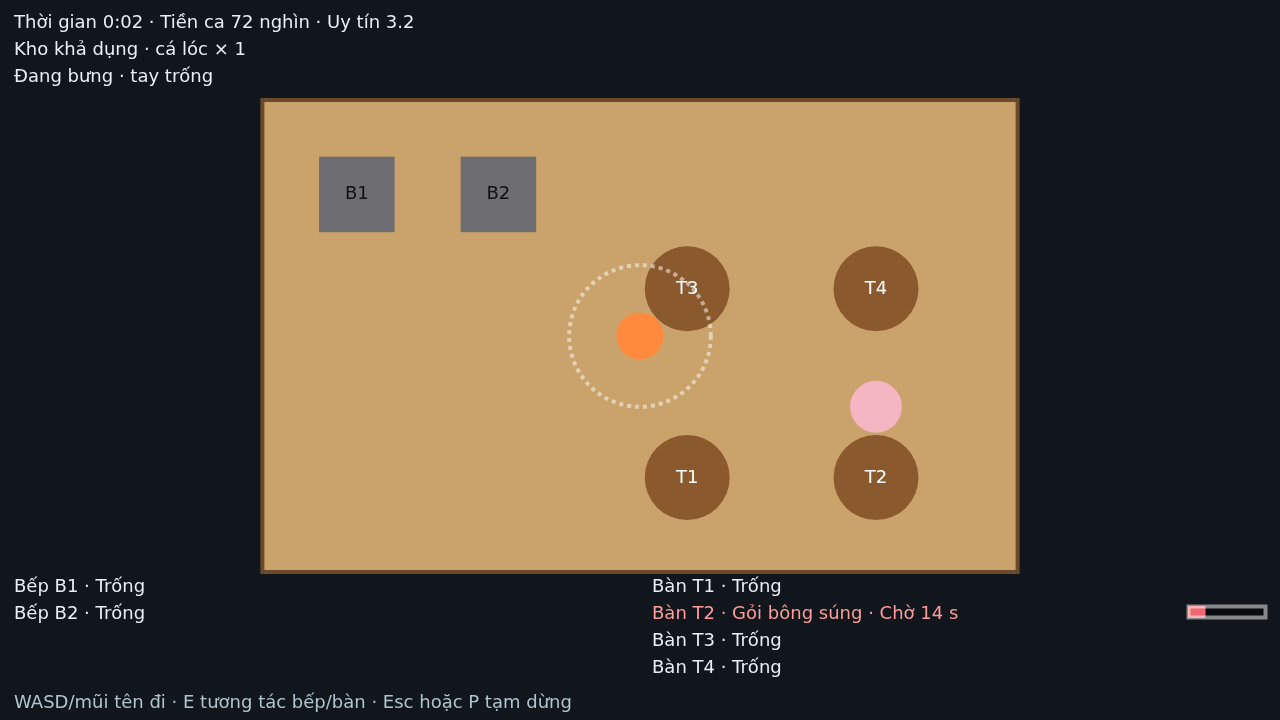
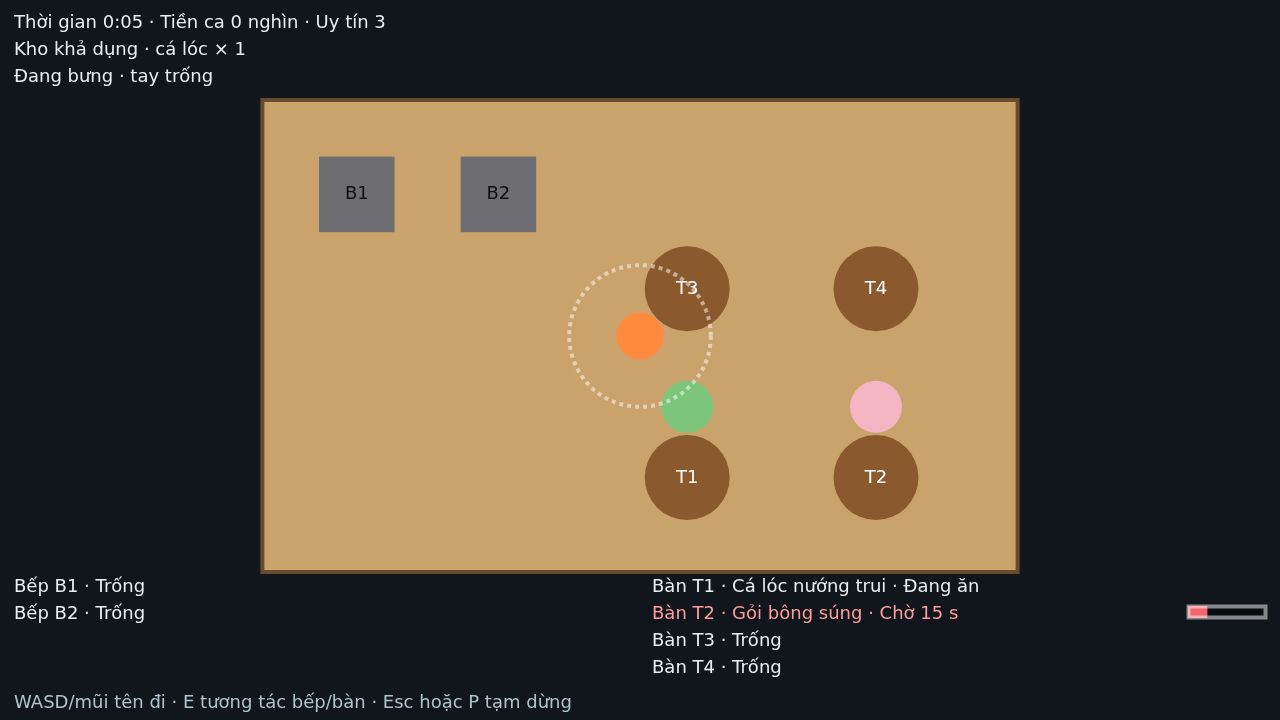
docs: chốt kiểm chứng UI Phase 2 trên v1.1
Pause thật ở gather/quán/Shop và vòng 5 ngày qua Chromium 1280×720, hai HUD đạt 60 FPS. Regression P1 119/119; toàn repo 369 đạt, 1 skip legacy.

Changed region(s): [[0.5625, 0.7944, 0.7812, 0.8556], [0.5, 0.5194, 0.5625, 0.6111], [0.1875, 0.0, 0.3125, 0.0611]]

diff --git a/docs/proof/phase-2/ui/README.md b/docs/proof/phase-2/ui/README.md
@@ -1,14 +1,24 @@
 # Kiểm chứng Phase 2 — lát U
 
-Giao diện ở `fdb79ba`, kiểm trên Chromium headless 1280×720. Bản ghép thử dùng `main` `c3dcd80`, lát cá `db3c462`, lát Shop/DayState `71f5ada` và các fixture số chuẩn v1.1. Manifest và bộ kiểm tra cấu hình chính thức của lát C vẫn cần được tích hợp.
+Bản kiểm `89e2437` trên `main`, sau khi gộp PR #24, dùng manifest v1.1 chính thức. Seed 42, Chromium headless, viewport 1280×720. Bằng chứng cho AC-P2-17 và AC-P2-18.
+
+```bash
+python3 -m chonoi.live --mode day --seed 42 --scenario docs/proof/phase-2/ui/scenario.json
+PYTHONPATH=tests:. python3 -m unittest discover -s tests -p 'test_p1_*.py' -v
+```
 
 | Kiểm tra | Kết quả quan sát |
 |---|---|
-| Menu, DayIntro, EveningIntro | Nút Chơi và Thoát hoạt động. DayIntro chuyển sau khoảng 4 giây hoặc khi nhấn phím. EveningIntro lọc món theo kho và kế hoạch. Đã kiểm thêm ở chiều rộng 320 px. [Menu](menu.png) |
-| HUD sáng và tối | Cảnh báo giờ/oxy/kiên nhẫn, giỏ và mục tiêu, 2 bếp/4 bàn, kho trừ phần giữ chỗ, chữ sans-serif 18 px. [HUD sáng](hud-gather.png), [HUD tối](hud-quan.png), [cảnh báo với snapshot giả](gather-warning-mock.png) |
-| Pause | Đã kiểm Esc/P, Tiếp tục và màn làm mờ với snapshot `paused` giả. Cần kiểm lại việc dừng tick/timer với lớp bọc lát C, kể cả trong Shop. [Ảnh mock](pause-mock.png) |
-| Vòng 5 ngày trên trình duyệt | Ca thử có kho và hai khách dựng sẵn. Ca đầu thu 72 nghìn, trong đó boa 12 nghìn, uy tín +0,2. Mua oxy cấp 1 và thấy 2.700 tick ở ngày sau. M2 có từ ngày 3. Sau khi đóng Shop ngày 5, Summary hiện tổng thu 560 nghìn, số dư 360 nghìn, uy tín 4, điểm 960, cá lóc nướng trui bán 5 suất. Tổng thu gồm 200 nghìn tiền/earned đầu fixture. [Shop](shop.png), [Summary](summary.png) |
-| Tốc độ vẽ cục bộ | Đếm lần Canvas vẽ lại cảnh qua `requestAnimationFrame`, chuẩn hóa bằng `performance.now()`. Chromium headless ghi khoảng 240 FPS ở cả HUD sáng (2,5 s) và tối (1,5 s), tại 1280×720. Cần đo lại trên bản tích hợp bàn giao. |
-| DaySim qua runner | Seed 42. Một Ngày chạy 22.200 tick trong khoảng 0,63 s. Ba Ngày chạy 66.600 tick, có M2 từ ngày 3. Mỗi cấu hình chạy hai lần cho JSONL giống từng byte. Lệnh CLI v1.1 của lát C cần kiểm riêng. |
+| Menu và màn chuyển pha | DayIntro giữ ca ở tick 0 và chuyển sau khoảng 4 giây hoặc khi nhấn phím. EveningIntro nhận 3 nguyên liệu và đợi bấm Mở quán. DayResult ghi 1 khách phục vụ, 1 khách bỏ đi, 72 nghìn tiền ca, boa 12 nghìn và uy tín +0,2. [Menu](menu.png) |
+| HUD và tốc độ vẽ | Font HUD sans-serif 18 px. Đếm số lần vẽ Canvas qua `requestAnimationFrame` trong 2,5 s ở gather và 2,4 s ở quán, đo bằng `performance.now()`. Hai ca đạt 60,0 FPS. [HUD sáng](hud-gather.png), [HUD tối](hud-quan.png), [cảnh báo với snapshot giả](gather-warning-mock.png) |
+| Pause thật | Esc/P và Tiếp tục hoạt động trong gather, quán và Shop. Khoảng chờ quan sát 400 ms cho mỗi pha. Shop bỏ qua lệnh mua và đóng trong lúc pause, giữ nguyên số dư và cấp. Tiếp tục thì đồng hồ chạy lại. [Ảnh pause Shop](pause-shop.png) |
+| Mua nâng cấp và tổng kết | Mua oxy cấp 1 ngày 1, có 2.700 tick oxy từ ngày 2. M2 xuất hiện từ ngày 3. Summary hiện sau khi Shop ngày 5 đóng. Tổng thu 560 nghìn (gồm 200 nghìn đầu fixture), số dư 360 nghìn, uy tín 4, điểm 960, món bán chạy là cá lóc nướng trui với 5 suất. [Shop](shop.png), [Summary](summary.png) |
+| Regression | 119/119 ca `test_p1_*.py` đạt. Toàn repo 369 ca đạt, 1 ca bỏ qua vì chỉ áp dụng cho đàn cá đứng yên v1.0. [Log regression](regression-v11.log) |
 
-Regression chạy bằng `PYTHONPATH=tests:. python3 -m unittest discover -s tests -v`. Bản ghép thử đạt 276/276. Fixture số chuẩn v1.1 đạt 134/134 ca regression P1 và live khi cấp cấu hình trực tiếp cho bộ nạp. Nhánh U lấy riêng với main `c3dcd80` còn 6 ca lỗi đã tái hiện trên main trước thay đổi U. Bản ghép thử đã có bản sửa `3a8be98` của nhóm.
+| Pha lúc pause | Tick ngoài trước → sau | `sim_tick` giữ nguyên | `phase_tick` giữ nguyên | Giờ còn lại (tick) |
+|---|---:|---:|---:|---:|
+| Gather | 29 → 54 | 24 | 24 | 10.776 |
+| Quán | 233 → 257 | 196 | 3 | 297 |
+| Shop | 559 → 591 | 495 | 2 | 598 |
+
+Script proof của nhóm chạy trên cùng revision cho smoke chuyển kho đạt, vòng 1 ngày đạt 22.200 tick trong 1,10 s, vòng 3 ngày đạt 66.600 tick. Hai lần chạy một ngày cùng seed cho JSONL giống từng byte.

diff --git a/docs/ai-usage-log.md b/docs/ai-usage-log.md
@@ -11,4 +11,4 @@
 | 2 | ChuTungDuongg | Codex | Triển khai Lát B, dựng fixture tuning v1.1, viết test về Cá Sấu, va chạm, ngất và giới hạn oxy/Máu. | Chưa đo token và chi phí. | Rà soát tìm ra sai số float làm hụt hit đúng 1,5 m hoặc chọn sai id khi hai khoảng cách bằng nhau. Đã tái hiện bằng tọa độ thập phân, sửa và kiểm lại bằng test. |
 | 1 | phuthaitran | Claude Code (Claude Opus) | Lát 4: fixture `quan_one_customer`, sắp lại `QuanSim.step` theo 5 bước PRD-0 F, chọn interact, nấu/bưng/phục vụ/boa/trả tiền/cuối ca, 26 test lát 4; tích hợp với lát 3; chơi thử quán với kho thật (headless + `chonoi.live` qua HTTP), sửa nhanh payload `no_dish`/`customer_arrived` và HUD bếp. | Chưa đo token và chi phí. | AI không đọc được PRD trên lab board (nạp động) nên phải dán mục E–F vào. Hợp đồng nhóm ghi payload event khác PRD; AI theo PRD và giữ trường cũ để không vỡ lát 3. Bản đầu của một test và của bot chơi thử viết rối, phải viết lại; kiểm đột biến (đổi `>=` ngưỡng boa) xác nhận test bắt lỗi. 134/134 test đạt. |
 | 1 | RachalHys | Codex | Đối chiếu PRD-0, viết ma trận 12 AC, hoàn thiện hai HUD và README, thêm ca biên headless và kiểm chứng trên main. | Chưa đo token và chi phí. | Bản HUD sáng AI đề xuất vẫn để log sự kiện đè lên giỏ ở cửa sổ 320 px. Phát hiện qua ảnh Chromium, dời log lên trên rồi kiểm lại trên cả hai kích thước. |
-| 2 | RachalHys | Codex | Đọc TICKET-02, triển khai giao diện lát U, rà regression Phase 1 và kiểm bằng Playwright. | Chưa đo token và chi phí. | Ban đầu dùng số bàn trống theo giả định quán chỉ có T1. Chạy regression với 4 bàn mới phát hiện fixture chưa lấp hết bàn. Đã cho fixture lấy danh sách bàn của sim và giữ nguyên phép kiểm. |
+| 2 | RachalHys | Codex | Đọc TICKET-02, triển khai giao diện lát U, rà regression Phase 1 và dùng Playwright kiểm vòng ngày cùng pause trên bản v1.1 đã gộp. | Chưa đo token và chi phí. | Ban đầu dùng số bàn trống theo giả định quán chỉ có T1. Chạy regression với 4 bàn mới phát hiện fixture chưa lấp hết bàn. Đã cho fixture lấy danh sách bàn của sim và giữ nguyên phép kiểm. |

diff --git a/README.md b/README.md
@@ -15,17 +15,17 @@ Cách làm việc kỹ thuật là **tự do** (push thẳng, nhánh + PR, pair,
 
 ## Bắt đầu nhanh
 
-Trên macOS hoặc Linux, dùng Git và Python 3 (CI dùng Python 3.12). Game dùng thư viện chuẩn. Chạy ba lệnh sau rồi mở địa chỉ in ra để chơi buổi sáng.
+Trên macOS hoặc Linux, dùng Git và Python 3 (CI dùng Python 3.12). Game dùng thư viện chuẩn. Chạy ba lệnh sau rồi mở địa chỉ in ra để chơi vòng ngày.
 
 ```bash
 git clone https://github.com/HoangHongNgo/K5-L3B-LAB-Day12-AI-SDLC-ChoNoi.git
 cd K5-L3B-LAB-Day12-AI-SDLC-ChoNoi
-python3 -m chonoi.live --mode gather --inventory-out kho.json
+python3 -m chonoi.live --mode day
 ```
 
-Khi đã cập bến hoặc buổi sáng kết thúc, nhấn `Ctrl+C`, rồi chạy `python3 -m chonoi.live --mode quan --inventory kho.json` để dùng kho vừa thu được. Muốn chơi riêng buổi tối, dùng `--inventory docs/contracts/inventory.sample.json` với lệnh `quan`.
+Để chơi hai ca riêng, chạy `python3 -m chonoi.live --mode gather --inventory-out kho.json`. Khi ca sáng kết thúc, dừng bằng `Ctrl+C` rồi chạy `python3 -m chonoi.live --mode quan --inventory kho.json`. Có thể dùng `docs/contracts/inventory.sample.json` để mở quán với kho mẫu.
 
-- **Điều khiển** — `WASD` hoặc phím mũi tên để bơi và đi, `E` để hái, cập bến hoặc tương tác với bếp và bàn, `Space` để bắt cá dưới nước, `R` để chơi lại.
+- **Điều khiển** — `WASD` hoặc phím mũi tên để bơi và đi, `E` để hái, cập bến hoặc tương tác với bếp và bàn, `Space` để bắt cá dưới nước. Trong vòng ngày, dùng `Esc` hoặc `P` để tạm dừng và tiếp tục. Trong ca riêng, dùng `R` để chơi lại.
 - **Tính điểm** — `điểm = earned + 100 × floor(uy tín)`, với `earned` là tổng thu trong lượt. Tiền tính bằng nghìn đồng.
 
 Chạy toàn bộ test bằng một lệnh.

diff --git a/TASK.md b/TASK.md
@@ -353,7 +353,7 @@ git tag phase-2 && git push origin phase-2
 ### RachalHys
 - [x] Chạy regression P1 với fixture số chuẩn v1.1 trên bản ghép thử. Giữ test kiểm đủ bàn theo danh sách thực, tắt cá/khách ngẫu nhiên trong fixture cần vị trí hoặc đơn cố định.
 - [x] Chụp HUD/menu/pause và đo FPS ở 1280×720. Ảnh và giới hạn kiểm chứng ở [proof lát U](docs/proof/phase-2/ui/README.md), để haiquanng nối vào proof chung.
-- [ ] Kiểm pause thật trong Shop và chạy lại regression trên manifest v1.1 chính thức sau khi lát C được gộp.
+- [x] Kiểm pause thật ở gather, quán và Shop trên `89e2437` sau khi gộp PR #24. Regression P1 đạt 119/119, bộ test toàn repo đạt 369 ca và bỏ qua 1 ca dành cho v1.0. [Ảnh pause và kết quả v1.1](docs/proof/phase-2/ui/README.md).
 
 ### haiquanng — Proof
 - [ ] Viết bằng chứng vào `docs/proof/phase-2/`: log test đầy đủ, `integration.*` (từ smoke phút 20), `day.jsonl` (`--days 1` và `--days 3`), kết quả `cmp` hai lần cùng seed, thời gian headless 1 Ngày, ảnh HUD/FPS của RachalHys. Mỗi file ghi commit đã chạy. — *haiquanng: script `docs/proof/phase-2/run_proof.py` đã có (nhánh `p2/proof-haiquanng`); chạy lại trên commit gắn tag khi có contract v1.1 và cờ `--days`*

diff --git a/docs/members/RachalHys.md b/docs/members/RachalHys.md
@@ -9,4 +9,5 @@
 
 - Tôi làm menu và hai màn giới thiệu, HUD v1.1, pause UI, Shop, DayResult và Summary. [Menu và intro](https://github.com/HoangHongNgo/K5-L3B-LAB-Day12-AI-SDLC-ChoNoi/commit/3b7b625) · [HUD và vòng ngày](https://github.com/HoangHongNgo/K5-L3B-LAB-Day12-AI-SDLC-ChoNoi/commit/fdb79ba)
 - Tôi rà regression Phase 1 với số chuẩn mới và chạy năm ngày trên bản ghép thử. Đợt ghép đầu lộ lỗi Ngày 0 và uy tín về 3 trong Shop. Bản ghép lại với commit sửa của lát S chạy đến tổng kết và giữ đúng uy tín xuyên ngày. [Bằng chứng UI](../proof/phase-2/ui/README.md)
+- Sau khi gộp lát C, tôi kiểm Esc/P trên trình duyệt ở cả ba pha, kể cả lúc mua nâng cấp trong Shop. Tôi thay ảnh pause mô phỏng bằng ảnh từ bản chạy v1.1 và chạy lại 119 ca regression Phase 1.
 - Qua lần này, tôi thấy fixture giúp tách phần giao diện để làm sớm, còn vòng ngày thật cần chạy qua đủ các lần đổi pha để phát hiện lỗi bàn giao.
